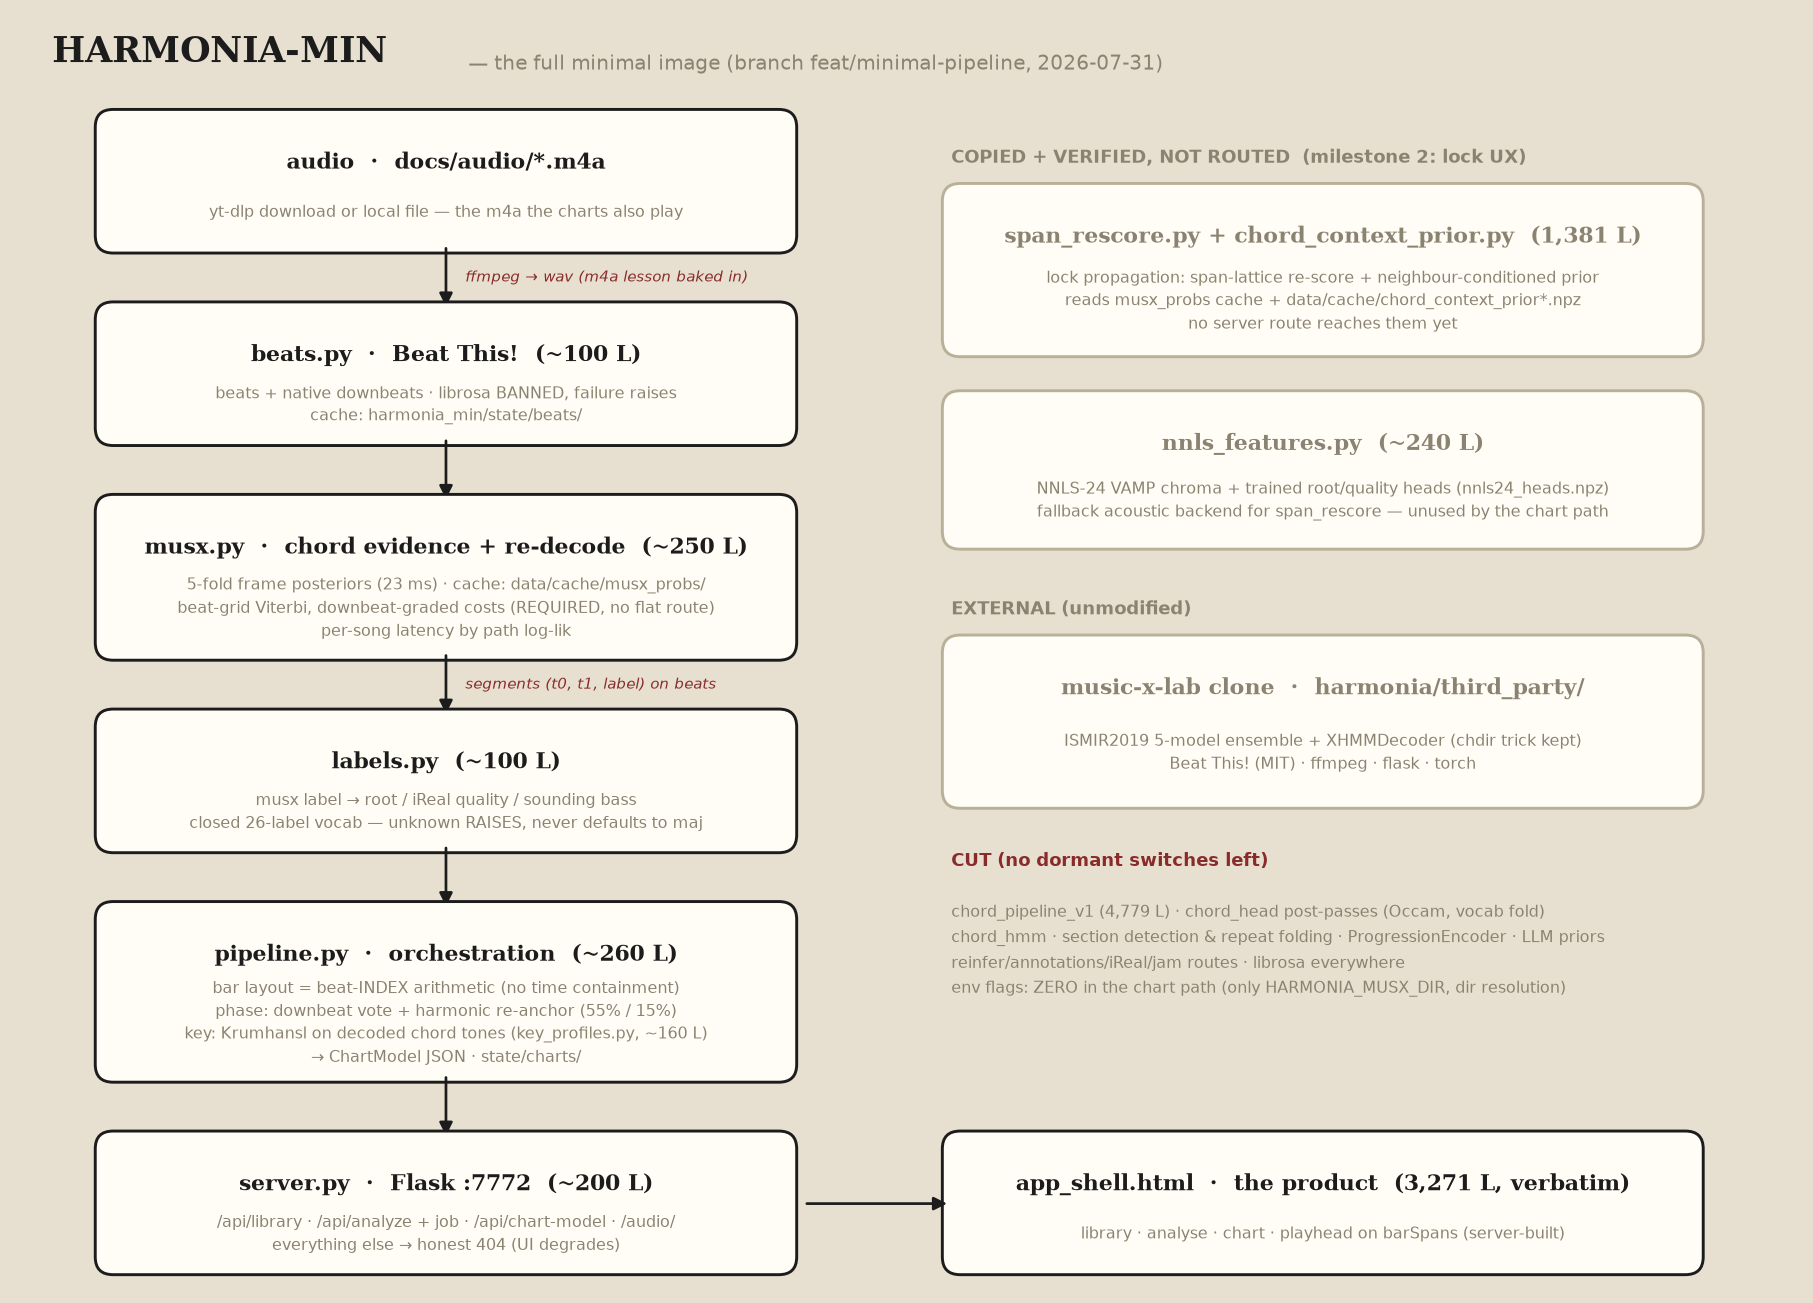
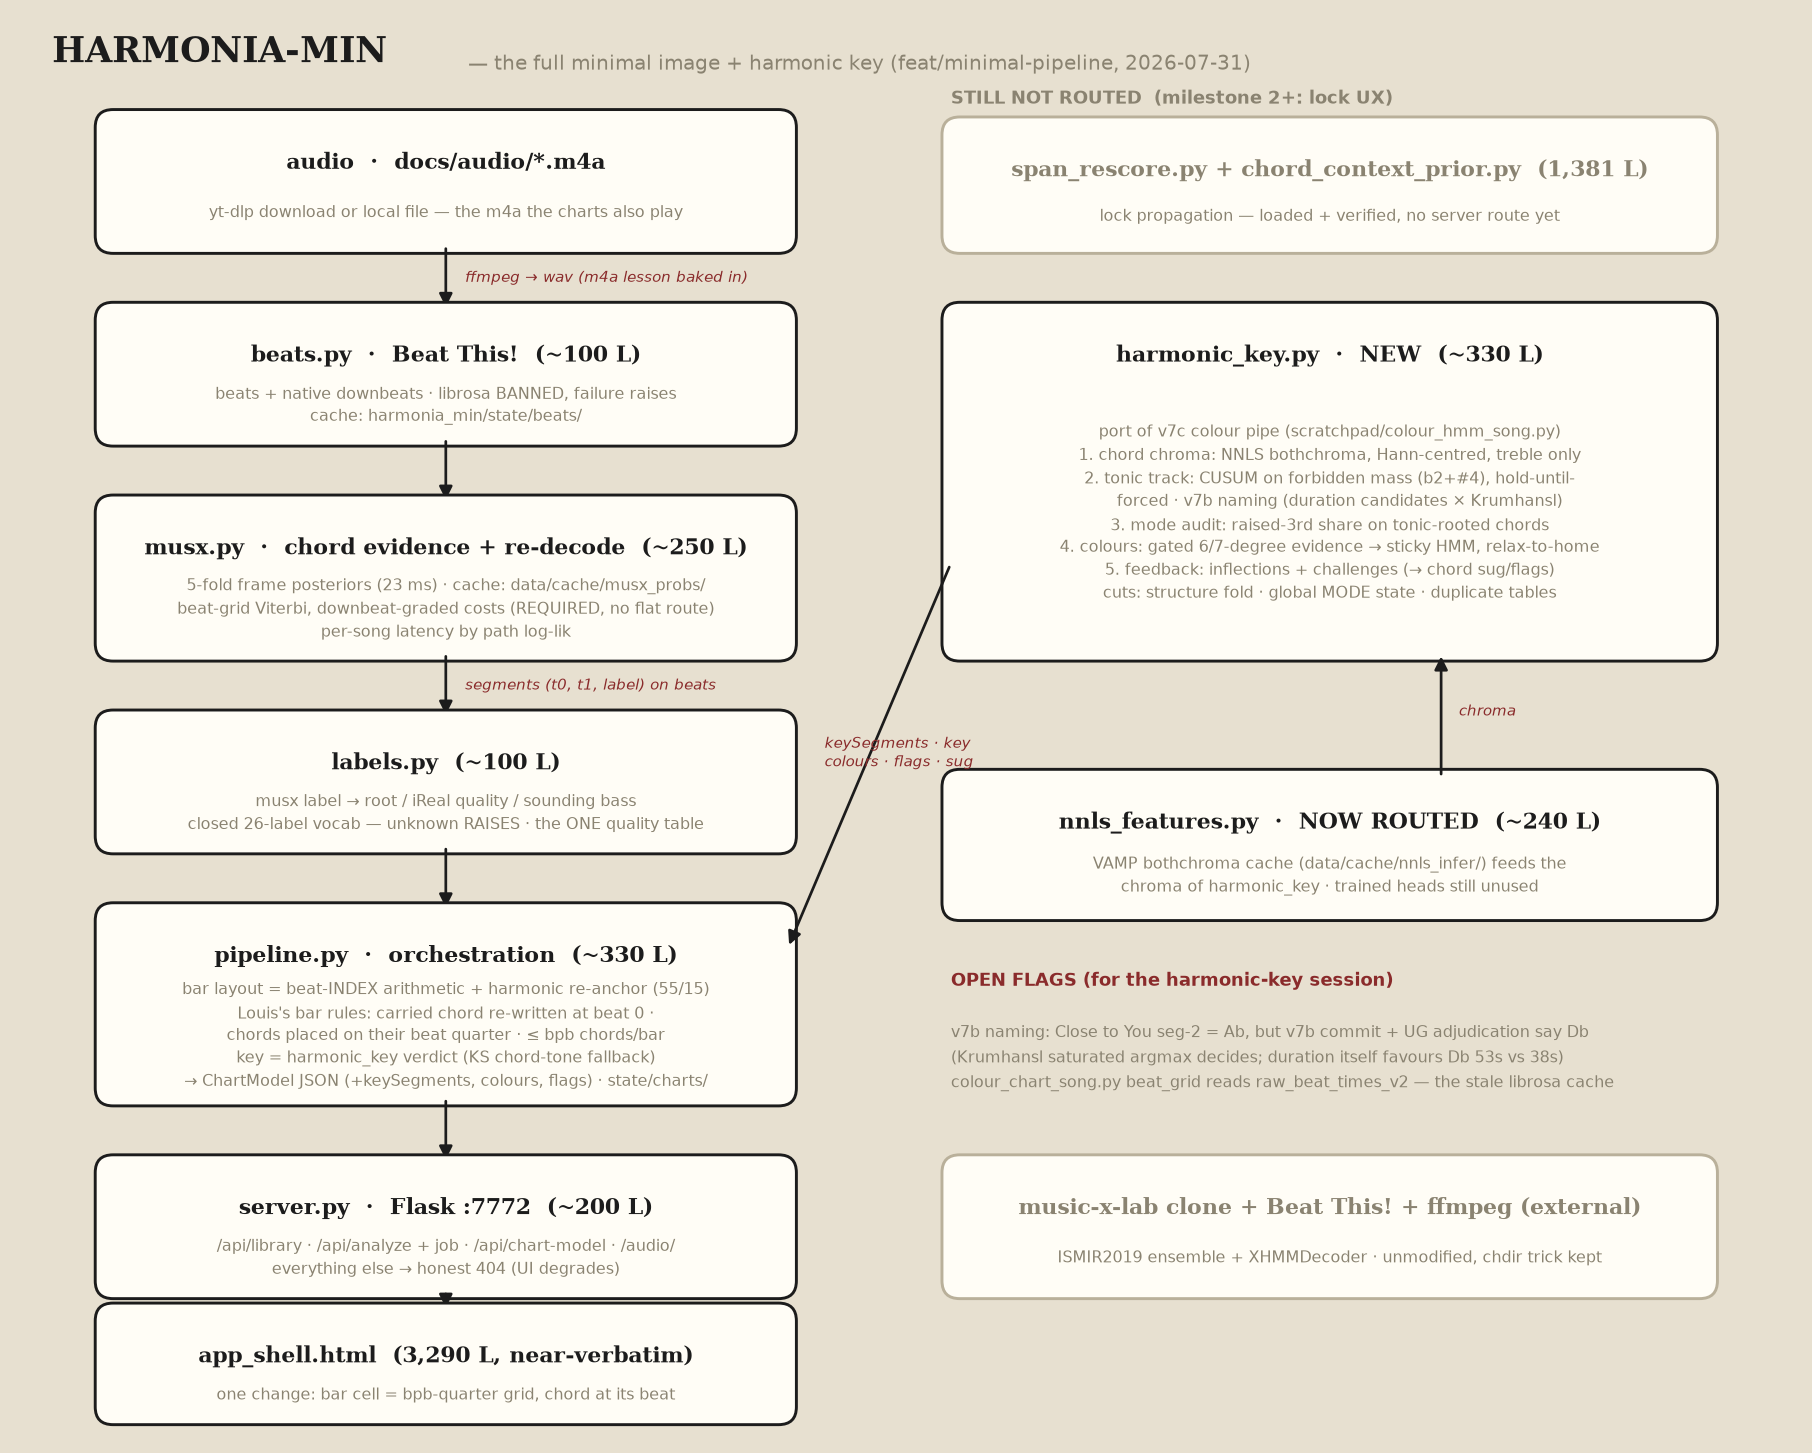
harmonia_min: log harmonic-key addition + updated schema

diff --git a/docs/minimal_pipeline_log.md b/docs/minimal_pipeline_log.md
@@ -149,3 +149,33 @@ chord_context_prior/nnls_features stay as unrouted milestone-2 bricks — no
 server route reaches them.
 
 Brick schema: docs/harmonia_min_schema.png.
+
+## 2026-07-31 — Harmonic key analysis added + Louis's two bar rules
+
+`harmonia_min/harmonic_key.py` (~330 L): minimal port of the v7c colour pipe
+(scratchpad/colour_hmm_song.py::decode_segments, feat/harmonic-key). Kept: the
+five stages (chord chroma → tonic track → mode audit → colours → feedback) and
+every v4.1 calibration constant. Cut: structure fold (needs the cut section
+machinery; the script treats no-fold as graceful fallback), the global MODE
+mutation (now a parameter), the third duplicate quality table (labels.py is
+the vocabulary). Wired into pipeline.analyze best-effort: global key = longest
+tonic segment; keySegments in the payload; colour/inflect/flag/sug per chord.
+Port verified faithful: identical segments/mode/suspects to the reference
+script run on the same input.
+
+Bar rules (Louis): (1) a bar lists all chords sounding in it — carried chord
+re-written at beat 0 when a new chord arrives mid-bar (carry-marked, excluded
+from repetition counts); held bars keep "%". (2) bar cells are a bpb-quarter
+grid; each chord sits at its beat quarter. Cap 2→bpb chords/bar; pickups
+display at beat 0.
+
+Verified in browser: Let It Be `C·G|Am·F` quarters + carries; This Love
+mid-bar G at its real beat 2; Close to You modulation segmented at 98.0s.
+
+FLAGS for the harmonic-key session (not fixed here — their science):
+* v7b naming names Close to You seg-2 **Ab**; the v7b commit claims Db and UG
+  adjudication (3787cca) says Db. Reproduced on the v7b-era script itself —
+  the commit's 3/3 claim does not reproduce. Krumhansl's saturated argmax
+  decides between candidates; duration itself favours Db (53s vs 38s).
+* colour_chart_song.py::beat_grid reads data/cache/raw_beat_times_v2 — the
+  cache serving/audio.py documents as 100% stale librosa beats (v3 superseded).
